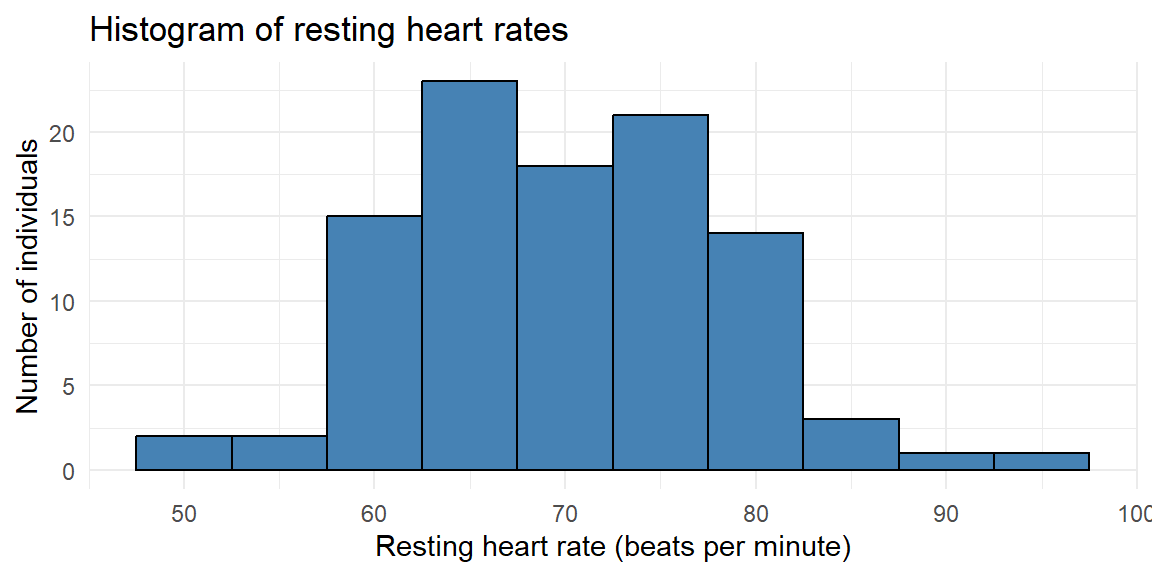
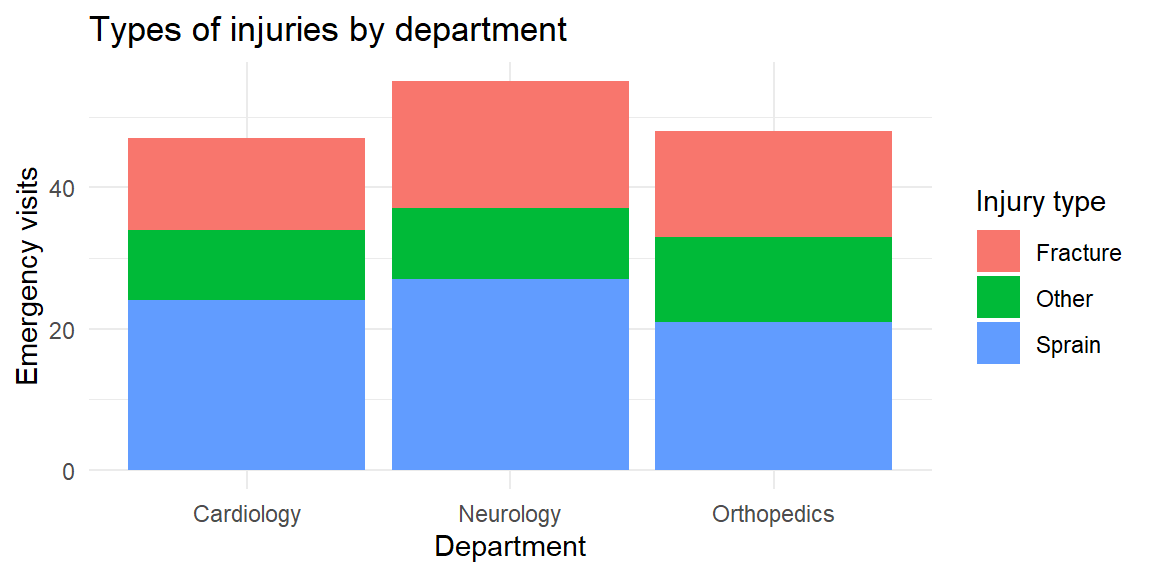
updated 03

diff --git a/site_libs/clipboard/clipboard.min.js b/site_libs/clipboard/clipboard.min.js
@@ -1,0 +1,7 @@
+/*!
+ * clipboard.js v2.0.11
+ * https://clipboardjs.com/
+ *
+ * Licensed MIT © Zeno Rocha
+ */
+!function(t,e){"object"==typeof exports&&"object"==typeof module?module.exports=e():"function"==typeof define&&define.amd?define([],e):"object"==typeof exports?exports.ClipboardJS=e():t.ClipboardJS=e()}(this,function(){return n={686:function(t,e,n){"use strict";n.d(e,{default:function(){return b}});var e=n(279),i=n.n(e),e=n(370),u=n.n(e),e=n(817),r=n.n(e);function c(t){try{return document.execCommand(t)}catch(t){return}}var a=function(t){t=r()(t);return c("cut"),t};function o(t,e){var n,o,t=(n=t,o="rtl"===document.documentElement.getAttribute("dir"),(t=document.createElement("textarea")).style.fontSize="12pt",t.style.border="0",t.style.padding="0",t.style.margin="0",t.style.position="absolute",t.style[o?"right":"left"]="-9999px",o=window.pageYOffset||document.documentElement.scrollTop,t.style.top="".concat(o,"px"),t.setAttribute("readonly",""),t.value=n,t);return e.container.appendChild(t),e=r()(t),c("copy"),t.remove(),e}var f=function(t){var e=1<arguments.length&&void 0!==arguments[1]?arguments[1]:{container:document.body},n="";return"string"==typeof t?n=o(t,e):t instanceof HTMLInputElement&&!["text","search","url","tel","password"].includes(null==t?void 0:t.type)?n=o(t.value,e):(n=r()(t),c("copy")),n};function l(t){return(l="function"==typeof Symbol&&"symbol"==typeof Symbol.iterator?function(t){return typeof t}:function(t){return t&&"function"==typeof Symbol&&t.constructor===Symbol&&t!==Symbol.prototype?"symbol":typeof t})(t)}var s=function(){var t=0<arguments.length&&void 0!==arguments[0]?arguments[0]:{},e=t.action,n=void 0===e?"copy":e,o=t.container,e=t.target,t=t.text;if("copy"!==n&&"cut"!==n)throw new Error('Invalid "action" value, use either "copy" or "cut"');if(void 0!==e){if(!e||"object"!==l(e)||1!==e.nodeType)throw new Error('Invalid "target" value, use a valid Element');if("copy"===n&&e.hasAttribute("disabled"))throw new Error('Invalid "target" attribute. Please use "readonly" instead of "disabled" attribute');if("cut"===n&&(e.hasAttribute("readonly")||e.hasAttribute("disabled")))throw new Error('Invalid "target" attribute. You can\'t cut text from elements with "readonly" or "disabled" attributes')}return t?f(t,{container:o}):e?"cut"===n?a(e):f(e,{container:o}):void 0};function p(t){return(p="function"==typeof Symbol&&"symbol"==typeof Symbol.iterator?function(t){return typeof t}:function(t){return t&&"function"==typeof Symbol&&t.constructor===Symbol&&t!==Symbol.prototype?"symbol":typeof t})(t)}function d(t,e){for(var n=0;n<e.length;n++){var o=e[n];o.enumerable=o.enumerable||!1,o.configurable=!0,"value"in o&&(o.writable=!0),Object.defineProperty(t,o.key,o)}}function y(t,e){return(y=Object.setPrototypeOf||function(t,e){return t.__proto__=e,t})(t,e)}function h(n){var o=function(){if("undefined"==typeof Reflect||!Reflect.construct)return!1;if(Reflect.construct.sham)return!1;if("function"==typeof Proxy)return!0;try{return Date.prototype.toString.call(Reflect.construct(Date,[],function(){})),!0}catch(t){return!1}}();return function(){var t,e=v(n);return t=o?(t=v(this).constructor,Reflect.construct(e,arguments,t)):e.apply(this,arguments),e=this,!(t=t)||"object"!==p(t)&&"function"!=typeof t?function(t){if(void 0!==t)return t;throw new ReferenceError("this hasn't been initialised - super() hasn't been called")}(e):t}}function v(t){return(v=Object.setPrototypeOf?Object.getPrototypeOf:function(t){return t.__proto__||Object.getPrototypeOf(t)})(t)}function m(t,e){t="data-clipboard-".concat(t);if(e.hasAttribute(t))return e.getAttribute(t)}var b=function(){!function(t,e){if("function"!=typeof e&&null!==e)throw new TypeError("Super expression must either be null or a function");t.prototype=Object.create(e&&e.prototype,{constructor:{value:t,writable:!0,configurable:!0}}),e&&y(t,e)}(r,i());var t,e,n,o=h(r);function r(t,e){var n;return function(t){if(!(t instanceof r))throw new TypeError("Cannot call a class as a function")}(this),(n=o.call(this)).resolveOptions(e),n.listenClick(t),n}return t=r,n=[{key:"copy",value:function(t){var e=1<arguments.length&&void 0!==arguments[1]?arguments[1]:{container:document.body};return f(t,e)}},{key:"cut",value:function(t){return a(t)}},{key:"isSupported",value:function(){var t=0<arguments.length&&void 0!==arguments[0]?arguments[0]:["copy","cut"],t="string"==typeof t?[t]:t,e=!!document.queryCommandSupported;return t.forEach(function(t){e=e&&!!document.queryCommandSupported(t)}),e}}],(e=[{key:"resolveOptions",value:function(){var t=0<arguments.length&&void 0!==arguments[0]?arguments[0]:{};this.action="function"==typeof t.action?t.action:this.defaultAction,this.target="function"==typeof t.target?t.target:this.defaultTarget,this.text="function"==typeof t.text?t.text:this.defaultText,this.container="object"===p(t.container)?t.container:document.body}},{key:"listenClick",value:function(t){var e=this;this.listener=u()(t,"click",function(t){return e.onClick(t)})}},{key:"onClick",value:function(t){var e=t.delegateTarget||t.currentTarget,n=this.action(e)||"copy",t=s({action:n,container:this.container,target:this.target(e),text:this.text(e)});this.emit(t?"success":"error",{action:n,text:t,trigger:e,clearSelection:function(){e&&e.focus(),window.getSelection().removeAllRanges()}})}},{key:"defaultAction",value:function(t){return m("action",t)}},{key:"defaultTarget",value:function(t){t=m("target",t);if(t)return document.querySelector(t)}},{key:"defaultText",value:function(t){return m("text",t)}},{key:"destroy",value:function(){this.listener.destroy()}}])&&d(t.prototype,e),n&&d(t,n),r}()},828:function(t){var e;"undefined"==typeof Element||Element.prototype.matches||((e=Element.prototype).matches=e.matchesSelector||e.mozMatchesSelector||e.msMatchesSelector||e.oMatchesSelector||e.webkitMatchesSelector),t.exports=function(t,e){for(;t&&9!==t.nodeType;){if("function"==typeof t.matches&&t.matches(e))return t;t=t.parentNode}}},438:function(t,e,n){var u=n(828);function i(t,e,n,o,r){var i=function(e,n,t,o){return function(t){t.delegateTarget=u(t.target,n),t.delegateTarget&&o.call(e,t)}}.apply(this,arguments);return t.addEventListener(n,i,r),{destroy:function(){t.removeEventListener(n,i,r)}}}t.exports=function(t,e,n,o,r){return"function"==typeof t.addEventListener?i.apply(null,arguments):"function"==typeof n?i.bind(null,document).apply(null,arguments):("string"==typeof t&&(t=document.querySelectorAll(t)),Array.prototype.map.call(t,function(t){return i(t,e,n,o,r)}))}},879:function(t,n){n.node=function(t){return void 0!==t&&t instanceof HTMLElement&&1===t.nodeType},n.nodeList=function(t){var e=Object.prototype.toString.call(t);return void 0!==t&&("[object NodeList]"===e||"[object HTMLCollection]"===e)&&"length"in t&&(0===t.length||n.node(t[0]))},n.string=function(t){return"string"==typeof t||t instanceof String},n.fn=function(t){return"[object Function]"===Object.prototype.toString.call(t)}},370:function(t,e,n){var f=n(879),l=n(438);t.exports=function(t,e,n){if(!t&&!e&&!n)throw new Error("Missing required arguments");if(!f.string(e))throw new TypeError("Second argument must be a String");if(!f.fn(n))throw new TypeError("Third argument must be a Function");if(f.node(t))return c=e,a=n,(u=t).addEventListener(c,a),{destroy:function(){u.removeEventListener(c,a)}};if(f.nodeList(t))return o=t,r=e,i=n,Array.prototype.forEach.call(o,function(t){t.addEventListener(r,i)}),{destroy:function(){Array.prototype.forEach.call(o,function(t){t.removeEventListener(r,i)})}};if(f.string(t))return t=t,e=e,n=n,l(document.body,t,e,n);throw new TypeError("First argument must be a String, HTMLElement, HTMLCollection, or NodeList");var o,r,i,u,c,a}},817:function(t){t.exports=function(t){var e,n="SELECT"===t.nodeName?(t.focus(),t.value):"INPUT"===t.nodeName||"TEXTAREA"===t.nodeName?((e=t.hasAttribute("readonly"))||t.setAttribute("readonly",""),t.select(),t.setSelectionRange(0,t.value.length),e||t.removeAttribute("readonly"),t.value):(t.hasAttribute("contenteditable")&&t.focus(),n=window.getSelection(),(e=document.createRange()).selectNodeContents(t),n.removeAllRanges(),n.addRange(e),n.toString());return n}},279:function(t){function e(){}e.prototype={on:function(t,e,n){var o=this.e||(this.e={});return(o[t]||(o[t]=[])).push({fn:e,ctx:n}),this},once:function(t,e,n){var o=this;function r(){o.off(t,r),e.apply(n,arguments)}return r._=e,this.on(t,r,n)},emit:function(t){for(var e=[].slice.call(arguments,1),n=((this.e||(this.e={}))[t]||[]).slice(),o=0,r=n.length;o<r;o++)n[o].fn.apply(n[o].ctx,e);return this},off:function(t,e){var n=this.e||(this.e={}),o=n[t],r=[];if(o&&e)for(var i=0,u=o.length;i<u;i++)o[i].fn!==e&&o[i].fn._!==e&&r.push(o[i]);return r.length?n[t]=r:delete n[t],this}},t.exports=e,t.exports.TinyEmitter=e}},r={},o.n=function(t){var e=t&&t.__esModule?function(){return t.default}:function(){return t};return o.d(e,{a:e}),e},o.d=function(t,e){for(var n in e)o.o(e,n)&&!o.o(t,n)&&Object.defineProperty(t,n,{enumerable:!0,get:e[n]})},o.o=function(t,e){return Object.prototype.hasOwnProperty.call(t,e)},o(686).default;function o(t){if(r[t])return r[t].exports;var e=r[t]={exports:{}};return n[t](e,e.exports,o),e.exports}var n,r});